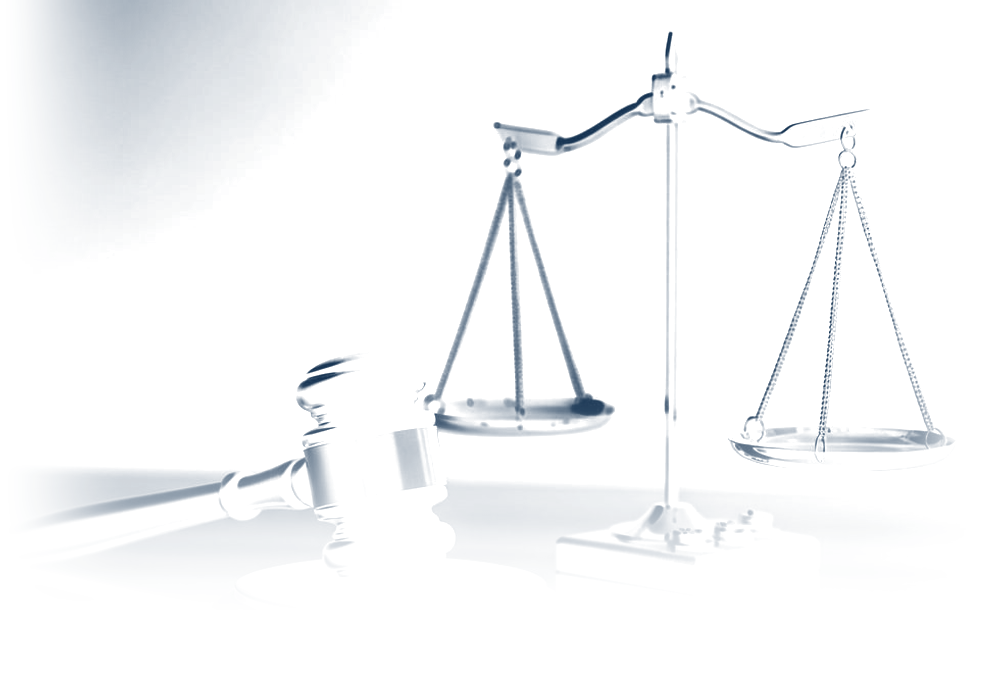
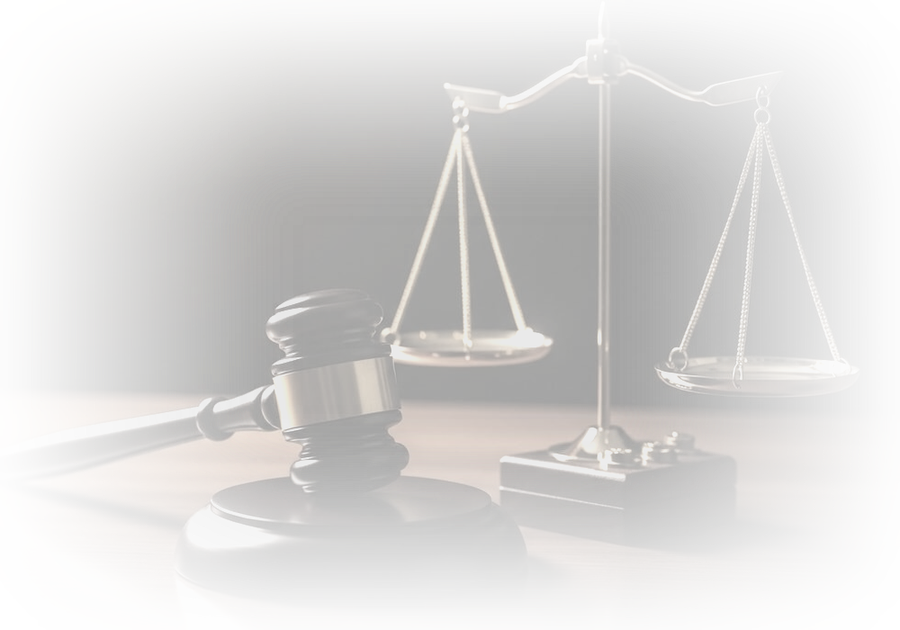
Restaura os grafismos das seções com nova arte de martelo e balança
Traz de volta a marca d'água de fundo em Áreas de Atuação, Correspondência
e Agendamento, a balança esmaecida no Sobre e os filetes e molduras
dourados. A arte nova vem de uma foto de martelo e balança clareada,
dessaturada e com as bordas esmaecidas em transparência, aplicada entre
0,32 e 0,35 de opacidade para não disputar com o texto.

A foto do Como funciona permanece inalterada.

diff --git a/components/sections/PracticeAreas.tsx b/components/sections/PracticeAreas.tsx
@@ -2,6 +2,7 @@ import { site } from "@/lib/site-data";
 import AreaChart from "@/components/ui/AreaChart";
 import Button from "@/components/ui/Button";
 import Reveal from "@/components/ui/Reveal";
+import BackdropGraphic from "@/components/ui/BackdropGraphic";
 
 export default function PracticeAreas() {
   const { positioning } = site;
@@ -9,9 +10,16 @@ export default function PracticeAreas() {
   return (
     <section
       id="areas"
-      className="bg-paper py-20 md:py-24"
+      className="relative overflow-hidden bg-paper py-20 md:py-24"
     >
-      <div className="mx-auto max-w-6xl px-4">
+      <BackdropGraphic
+        src="/images/gavel-silhouette.png"
+        className="left-1/2 top-0 h-[22rem] w-[30rem] -translate-x-1/2 md:h-[30rem] md:w-[46rem]"
+        sizes="(min-width: 768px) 46rem, 30rem"
+        opacity={0.35}
+      />
+
+      <div className="relative mx-auto max-w-6xl px-4">
         <Reveal className="mx-auto max-w-2xl text-center">
           <span className="text-xs font-semibold uppercase tracking-[0.2em] text-gold">
             Áreas de Atuação
@@ -27,8 +35,9 @@ export default function PracticeAreas() {
 
         {/* Especialidade — cartões maiores, em destaque */}
         <div className="mt-14">
-          <Reveal>
-            <h3 className="border-b border-line pb-3 font-display text-2xl font-bold text-navy">
+          <Reveal className="flex items-center gap-3">
+            <span className="h-px w-8 bg-gold" />
+            <h3 className="font-display text-2xl font-bold text-navy">
               {positioning.specialtyLabel}: Direito Imobiliário
             </h3>
           </Reveal>
@@ -54,8 +63,9 @@ export default function PracticeAreas() {
 
         {/* Full service — lista compacta das demais áreas */}
         <div className="mt-16">
-          <Reveal>
-            <h3 className="border-b border-line pb-3 font-display text-2xl font-bold text-navy">
+          <Reveal className="flex items-center gap-3">
+            <span className="h-px w-8 bg-gold" />
+            <h3 className="font-display text-2xl font-bold text-navy">
               {positioning.fullServiceLabel}
             </h3>
           </Reveal>

diff --git a/components/sections/Hero.tsx b/components/sections/Hero.tsx
@@ -17,9 +17,12 @@ export default function Hero() {
     <section className="border-b border-line bg-bone">
       <div className="mx-auto grid max-w-6xl items-center gap-12 px-4 py-16 md:grid-cols-[1.1fr_0.9fr] md:py-24">
         <Reveal>
-          <span className="text-xs font-semibold uppercase tracking-[0.2em] text-gold">
-            {positioning.eyebrow}
-          </span>
+          <div className="flex items-center gap-3">
+            <span className="h-px w-10 bg-gold" />
+            <span className="text-xs font-semibold uppercase tracking-[0.2em] text-gold">
+              {positioning.eyebrow}
+            </span>
+          </div>
 
           <h1 className="mt-6 font-display text-4xl font-bold leading-tight text-navy md:text-5xl">
             {positioning.headline}
@@ -53,7 +56,12 @@ export default function Hero() {
           </dl>
         </Reveal>
 
-        <Reveal delay={120} className="mx-auto w-full max-w-sm">
+        <Reveal delay={120} className="relative mx-auto w-full max-w-sm">
+          {/* moldura discreta atrás da foto, no lugar dos efeitos anteriores */}
+          <span
+            aria-hidden
+            className="absolute -bottom-4 -right-4 hidden h-full w-full rounded-md border border-gold/40 md:block"
+          />
           <div className="relative aspect-[3/4] w-full overflow-hidden rounded-md bg-navy">
             <Image
               src="/images/lucas-retrato.jpeg"

diff --git a/components/sections/About.tsx b/components/sections/About.tsx
@@ -8,10 +8,28 @@ export default function About() {
   return (
     <section
       id="sobre"
-      className="border-y border-line bg-bone py-20 md:py-24"
+      className="relative overflow-hidden border-y border-line bg-bone py-20 md:py-24"
     >
-      <div className="mx-auto grid max-w-6xl gap-12 px-4 md:grid-cols-[0.85fr_1.15fr] md:items-center">
-        <Reveal className="mx-auto w-full max-w-xs">
+      {/* balança da justiça como marca d'água discreta ao fundo */}
+      <div
+        aria-hidden
+        className="pointer-events-none absolute -right-10 bottom-0 top-0 hidden w-[42%] sm:block"
+      >
+        <Image
+          src="/images/justice-scale.jpg"
+          alt=""
+          fill
+          sizes="42vw"
+          className="object-contain object-bottom opacity-[0.06] grayscale"
+        />
+      </div>
+
+      <div className="relative mx-auto grid max-w-6xl gap-12 px-4 md:grid-cols-[0.85fr_1.15fr] md:items-center">
+        <Reveal className="relative mx-auto w-full max-w-xs">
+          <span
+            aria-hidden
+            className="absolute -bottom-4 -left-4 hidden h-full w-full rounded-md border border-gold/40 md:block"
+          />
           <div className="relative aspect-[3/4] w-full overflow-hidden rounded-md bg-navy">
             <Image
               src="/images/lucas-perfil.jpeg"

diff --git a/components/sections/Correspondence.tsx b/components/sections/Correspondence.tsx
@@ -2,6 +2,7 @@ import { site } from "@/lib/site-data";
 import { whatsappLink } from "@/lib/whatsapp";
 import Button from "@/components/ui/Button";
 import Reveal from "@/components/ui/Reveal";
+import BackdropGraphic from "@/components/ui/BackdropGraphic";
 
 export default function Correspondence() {
   const { correspondent } = site;
@@ -9,9 +10,16 @@ export default function Correspondence() {
   return (
     <section
       id="correspondencia"
-      className="bg-paper py-20 md:py-24"
+      className="relative overflow-hidden bg-paper py-20 md:py-24"
     >
-      <div className="mx-auto max-w-6xl px-4">
+      <BackdropGraphic
+        src="/images/gavel-silhouette.png"
+        className="-right-20 top-4 h-[20rem] w-[20rem] md:h-[30rem] md:w-[30rem]"
+        sizes="(min-width: 768px) 30rem, 20rem"
+        opacity={0.35}
+      />
+
+      <div className="relative mx-auto max-w-6xl px-4">
         <Reveal className="mx-auto max-w-2xl text-center">
           <span className="text-xs font-semibold uppercase tracking-[0.2em] text-gold">
             {correspondent.eyebrow}

diff --git a/components/sections/BookingSection.tsx b/components/sections/BookingSection.tsx
@@ -1,14 +1,22 @@
 import Image from "next/image";
 import BookingForm from "@/components/ui/BookingForm";
 import Reveal from "@/components/ui/Reveal";
+import BackdropGraphic from "@/components/ui/BackdropGraphic";
 
 export default function BookingSection() {
   return (
     <section
       id="agendar"
-      className="border-y border-line bg-bone py-20 md:py-24"
+      className="relative overflow-hidden border-y border-line bg-bone py-20 md:py-24"
     >
-      <div className="mx-auto grid max-w-6xl gap-12 px-4 md:grid-cols-2 md:items-center">
+      <BackdropGraphic
+        src="/images/gavel-silhouette.png"
+        className="-left-20 bottom-0 h-[18rem] w-[18rem] md:h-[26rem] md:w-[26rem]"
+        sizes="(min-width: 768px) 26rem, 18rem"
+        opacity={0.32}
+      />
+
+      <div className="relative mx-auto grid max-w-6xl gap-12 px-4 md:grid-cols-2 md:items-center">
         <Reveal>
           <div className="flex items-center gap-4">
             <span className="relative h-16 w-16 shrink-0 overflow-hidden rounded-full border border-line bg-paper">

diff --git a/components/sections/Article.tsx b/components/sections/Article.tsx
@@ -9,7 +9,8 @@ export default function Article() {
   return (
     <section id="artigo" className="bg-paper py-20 md:py-24">
       <div className="mx-auto max-w-3xl px-4">
-        <Reveal>
+        <Reveal className="flex items-center gap-3">
+          <span className="h-px w-8 bg-gold" />
           <span className="text-xs font-semibold uppercase tracking-[0.2em] text-gold">
             {article.eyebrow}
           </span>
